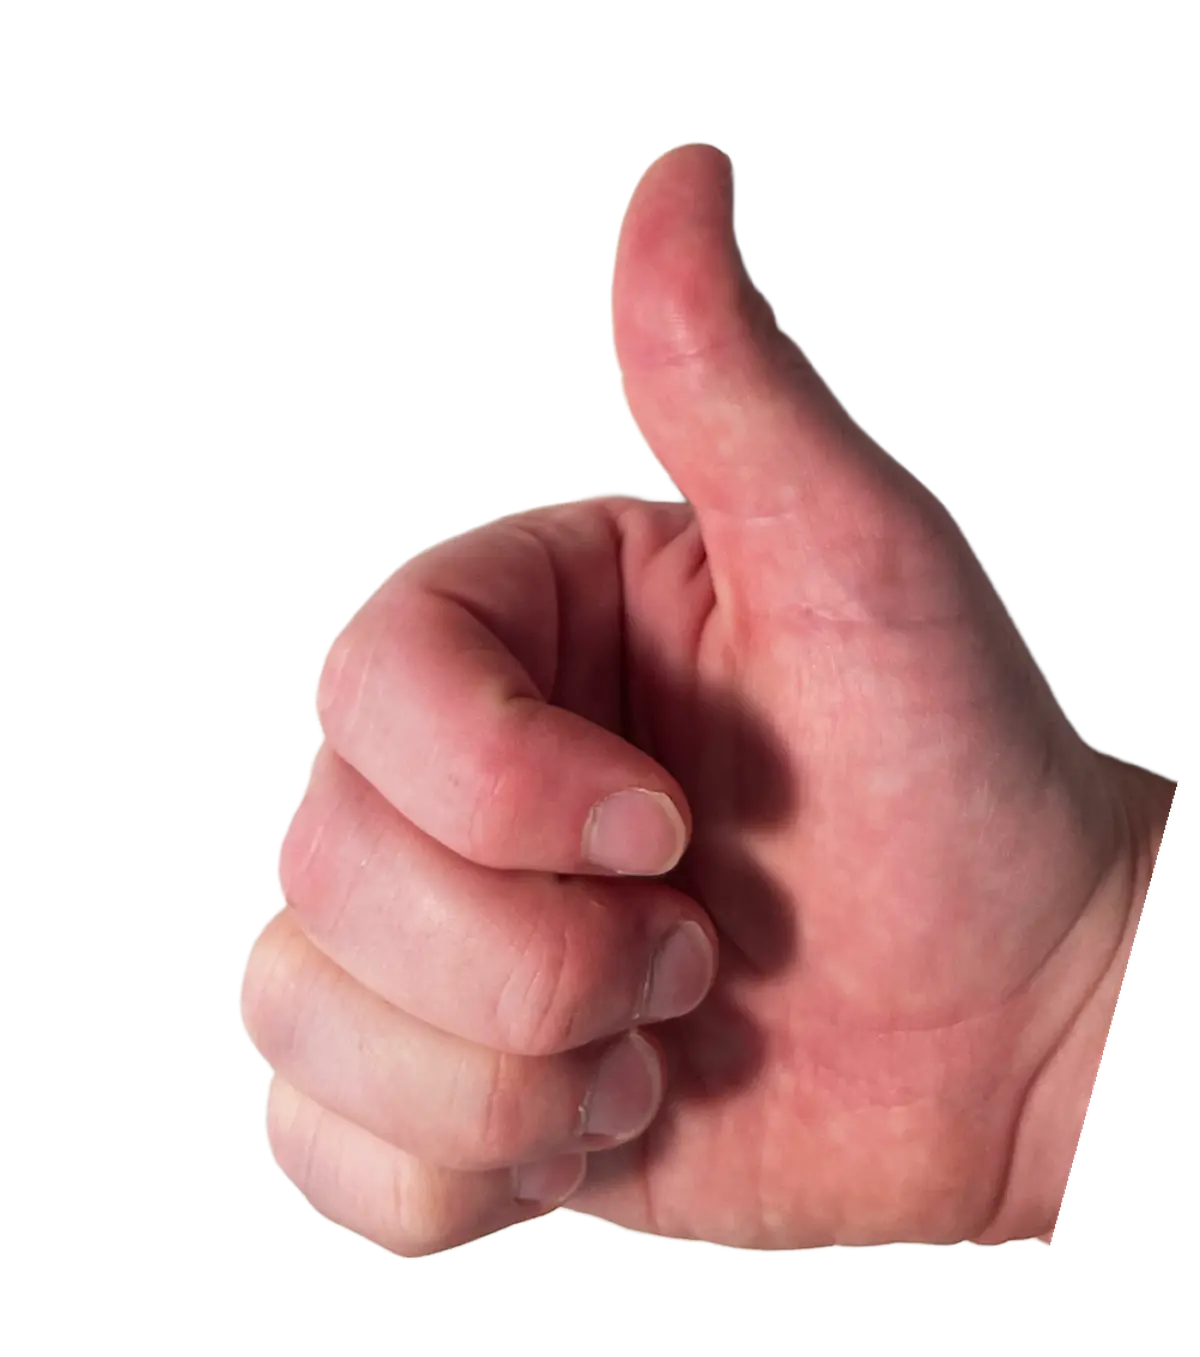
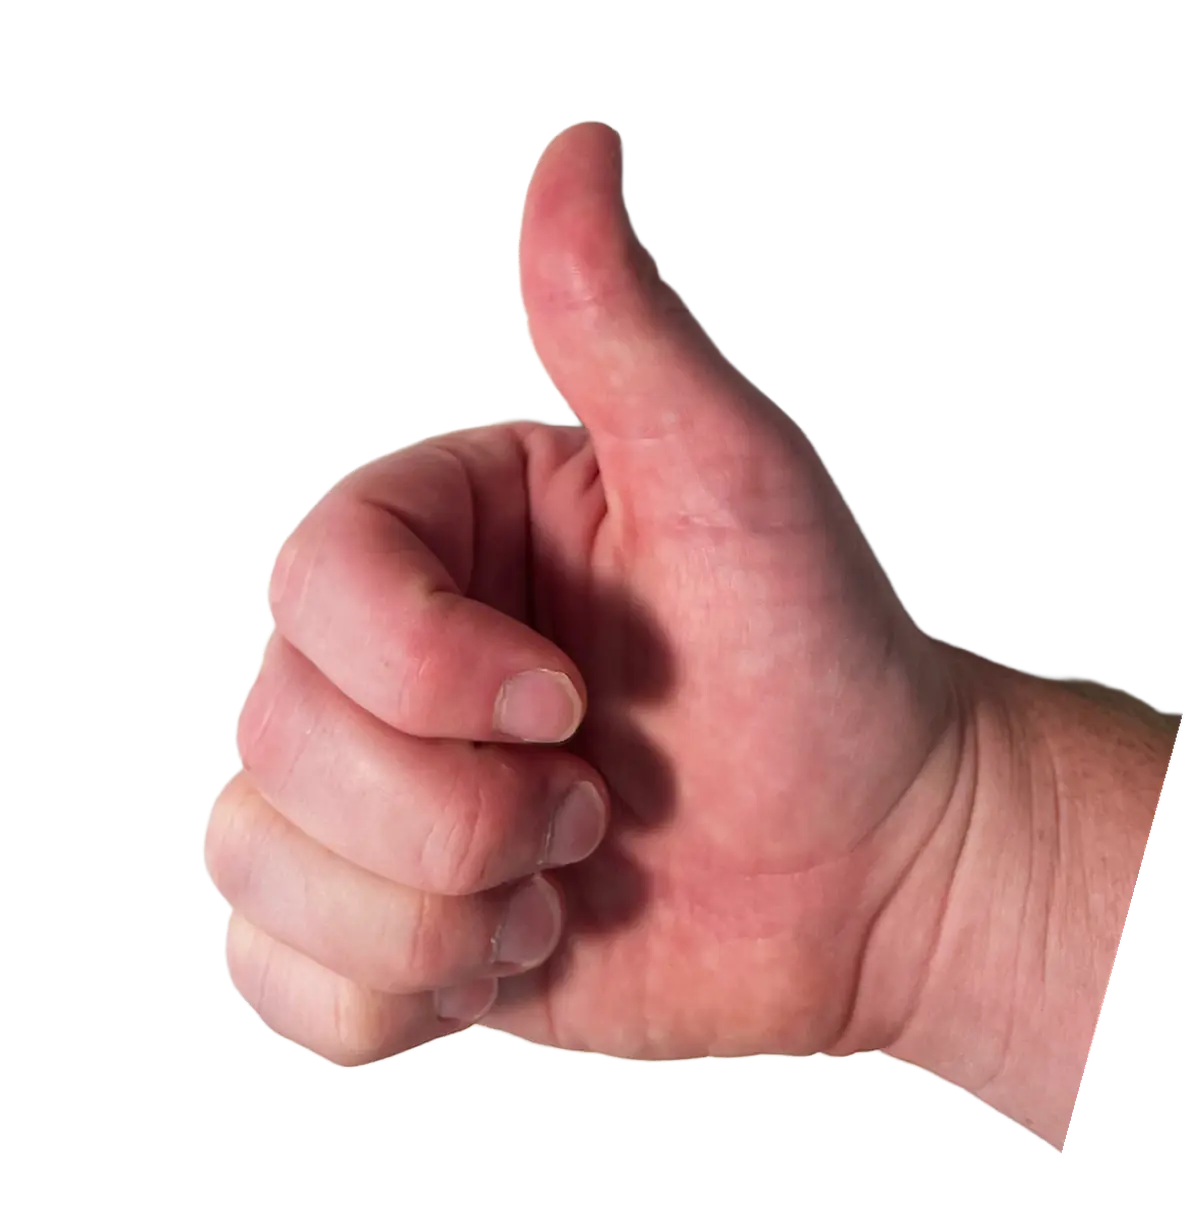
Lock screen fixes, and both desktop hands
THE CARET IS PARALLEL NOW. Noah: "The text cursor isn't parallel to the side
of the box." Its 3.95-degree lean is the demo's own — and faithful copying is
what made it wrong, because of WHERE it now lives. The demo draws its line in
page space, untransformed, beside a box carrying a -3.97 degree rotation; this
draws the caret INSIDE the box's rotated frame so it can line up with the
dots. There the box's sides are vertical, so the demo's tilt stops cancelling
the box's and starts adding to it — 7.9 degrees off the edge beside it.
Vertical in the local frame IS parallel to the side of the box.

THE STOP HAND SHOWS A WRIST. "it's cropped too close to the palm. Have the
crop closer to the wrist." The cut sat at 0.86 of the hand's height below the
fingertips, which lands on the heel of the palm — the hand ended where it
stopped being a hand. 1.02 puts it on the wrist proper. The cut is defined in
frame 1 and carried through the others by their own rotation, so the arm still
does not grow.

THE PHONE GATE IS CENTRED. Its Stage was 1080 scaled by the artboard ratio —
461 units, barely more than half the hand's own 793 — so the composition hung
out of the bottom of its own frame and no amount of centring could help.
Twice the hand's centreline is the height that centres it by construction.
Measured: 422 of 422.

THE HOME HAND'S FLICKER was it outliving its section. It stayed on the page
below the fold, and small scrolls near the pin's boundary re-crossed the call
[…]

diff --git a/src/components/home/Description.tsx b/src/components/home/Description.tsx
@@ -197,12 +197,11 @@ export default function Description() {
       let handShot: gsap.core.Timeline | null = null;
       const resetHand = (hide: boolean) => {
         handFired = false;
-        // ONLY THE HIDING PATH KILLS THE THROW. Leaving downward happens a
-        // fraction of a second after the call point — the throw is still in
-        // the air — and killing it there left the hand stranded 773px above
-        // its resting place and fully visible, which is worse than the
-        // problem being fixed. Clearing the flag is all the downward exit
-        // needs; the landing can finish on its own.
+        // Killing a throw mid-flight used to strand the hand 773px above its
+        // resting place and fully VISIBLE, which is why the downward exit
+        // once avoided doing it. Hiding in the same breath is what makes it
+        // safe: an interrupted throw that is also invisible has nothing to
+        // strand. Both exits take this path now.
         if (!hide) return;
         handShot?.kill();
         handShot = null;
@@ -293,8 +292,26 @@ export default function Description() {
           anticipatePin: 1,
           scrub: 0.6,
           invalidateOnRefresh: true,
-          // See the note on fireHand: clearing the flag at the boundaries is
-          // what lets the throw play again rather than only ever once.
+          /* BOTH EXITS HIDE IT NOW (2026-08-25). Noah: "the arrow hand is
+           * 'glitching' in and out when we scroll back up. Have it completely
+           * disappear after the user sees the project pages. It only
+           * reappears after the user scrolls all the way back up."
+           *
+           * The previous version cleared the flag on the way down but left
+           * the hand where it landed, on the grounds that hiding something
+           * the reader just watched arrive is its own kind of odd. What that
+           * actually produced is the flicker he is describing: the hand stays
+           * on the page below the fold, and every small scroll near the
+           * boundary re-crosses the call point and throws it again, so it
+           * blinks in and out around the seam. Hiding on exit removes the
+           * thing that can blink — past the section there is nothing to see,
+           * and coming back up plays the throw once, cleanly, from the top. */
+          /* The DOWNWARD exit only clears the flag; hiding is handled by the
+           * separate trigger below, which waits until the section has
+           * genuinely left the screen. This one fires at the END OF THE PIN,
+           * which is still a run-out short of the project grid — hiding here
+           * made the hand vanish at the very moment it is supposed to be
+           * pointing at what comes next. */
           onLeave: () => resetHand(false),
           onLeaveBack: () => resetHand(true),
         },
@@ -347,6 +364,32 @@ export default function Description() {
 
       if (line4) tl.to(line4, { yPercent: 0, duration: REVEAL, ease: "power3.out" });
       // The arrow arrives once the line is standing and readable.
+      /* GONE ONCE THE SECTION IS GONE (2026-08-25). Noah: "the arrow hand is
+       * 'glitching' in and out when we scroll back up. Have it completely
+       * disappear after the user sees the project pages. It only reappears
+       * after the user scrolls all the way back up."
+       *
+       * The flicker came from the hand outliving its own section: it stayed
+       * on the page below the fold, and small scrolls near the pin's boundary
+       * re-crossed the call point and threw it again, so it blinked around
+       * the seam. This hides it the moment the whole section has passed the
+       * top of the window — well after the pin ends, so the hand still gets
+       * to point at the grid on the way out — and re-arms it only when the
+       * reader comes back above that line, which is what "all the way back
+       * up" means. */
+      ScrollTrigger.create({
+        // The PIN, not the inner content box. `root` is absolutely positioned
+        // inside a pinned Stage, so its bottom edge is a fixed-position number
+        // that never passes anything — measured at the foot of the page it
+        // read -1252 while this trigger had never fired. The pinned element
+        // has a real spacer in the document, so "bottom top" on it means what
+        // it says: the section, run-out included, has left upward.
+        trigger: pinRef.current,
+        start: "bottom top",
+        onEnter: () => resetHand(true),
+        onLeaveBack: () => resetHand(true),
+      });
+
       tl.call(fireHand);
       // The beat Noah wants the reader to spend on that line, with the hand
       // landing into it. Long enough to cover the shot and its twang.

diff --git a/src/components/PasswordHand.tsx b/src/components/PasswordHand.tsx
@@ -161,7 +161,21 @@ const FIELD_PAD = 9 * COPY_SCALE;
  * Expressed as fractions of the box so it keeps that proportion when the box
  * is resized, which it just was.
  */
-const CARET = { hFrac: 0.78, leanFrac: 0.069, w: 3 * COPY_SCALE };
+const CARET = { hFrac: 0.78, leanFrac: 0, w: 3 * COPY_SCALE };
+/*
+ * THE LEAN IS GONE, 2026-08-25. Noah: "The text cursor isn't parallel to the
+ * side of the box, please rotate this a smidge to be parallel."
+ *
+ * It was 0.069 — the demo's own 3.3 units of drift over 47.8 of height, which
+ * is 3.95 degrees off vertical. Faithful, and wrong here, because of WHERE it
+ * is drawn. The demo puts its line in page space, untransformed, next to a box
+ * that carries a -3.97 degree rotation; this draws the caret INSIDE the box's
+ * rotated frame so it can line up with the dots. In that frame the box's sides
+ * are vertical, so the demo's tilt no longer cancels against the box's — it
+ * adds to it, leaving the caret 7.9 degrees off the edge beside it. Vertical in
+ * the local frame IS parallel to the side of the box, which is what was
+ * actually being asked for.
+ */
 
 // 0.25 -> 0.5, 2026-08-24: "Let's double the amount of time until we get to
 // the thumbs up."
@@ -195,6 +209,17 @@ const DEBOUNCE_MS = 140;
  * screen.
  */
 const PHONE_ARTBOARD = 820;
+/*
+ * ...and the height it is centred in — 2026-08-25: "make sure the hand and
+ * animation is more centered in the center of the phone screen."
+ *
+ * The Stage was 1080 scaled by the artboard ratio, which is 461 units — barely
+ * more than half the hand's own 793, so the composition hung out of the bottom
+ * of its own frame and could not be centred by it. Twice the hand's centre
+ * line is the height that puts the hand exactly in the middle by construction,
+ * whatever the crop turns out to be.
+ */
+const PHONE_STAGE_H = HAND_BOX.y * 2 + HAND_BOX.h;
 /** Slide the whole composition left so the hand is centred on the narrower
  *  artboard rather than sitting where a 1920-wide one put it. */
 const PHONE_SHIFT_X =
@@ -203,8 +228,10 @@ const PHONE_SHIFT_X =
 /** The artboard this screen is laid out on, which the PAGE has to agree with
  *  — it owns the `--u` declaration and the wrapper's width. Exported rather
  *  than duplicated so the two cannot drift apart. */
-export function usePasswordArtboard(): number {
-  return useIsPhone() ? PHONE_ARTBOARD : 1920;
+export function usePasswordArtboard(): { w: number; h: number } {
+  return useIsPhone()
+    ? { w: PHONE_ARTBOARD, h: PHONE_STAGE_H }
+    : { w: 1920, h: 1080 };
 }
 
 export default function PasswordHand({
@@ -394,7 +421,7 @@ export default function PasswordHand({
   return (
     <>
       <Stage
-        heightUnits={phone ? 1080 * (artboard / 1920) : 1080}
+        heightUnits={phone ? PHONE_STAGE_H : 1080}
         // The entry box is small, tilted and sitting on a photograph, so it
         // does not read as a click target the way a form field would. Anywhere
         // on this screen puts the cursor in it.

diff --git a/src/components/project/ProjectStatement.tsx b/src/components/project/ProjectStatement.tsx
@@ -490,20 +490,24 @@ export function ProjectStatement({
           // to a start position that can never be crossed, rather than
           // throwing, means a torn-down trigger is inert instead of
           // poisoning every other trigger's next refresh.
-          /* FIRES ONCE THE COPY HAS LEFT THE SCREEN (2026-08-23, Noah: "I'm
-           * noticing the hand will rotate down on the site and fall, but the
-           * last sentence or so from the description text is still visible.
-           * Let's move the hand down more so its the only thing that can be
-           * seen when its interaction plays.")
+          /* FIRES WHEN THE READER REACHES THE LAST SENTENCE (2026-08-25).
            *
-           * This used to fire when the paragraph's bottom edge reached the
-           * hand's own sticky line, which is near the top of the window — so
-           * the last line or two were still sitting just above the hand as it
-           * swung. Keying off the viewport's top edge instead, with a margin
-           * past it, means the trigger cannot fire until the text is
-           * genuinely gone. The hand's resting line also moves down (see the
-           * sticky wrapper below) so it plays nearer the middle of an empty
-           * screen rather than hard against the top of one. */
+           * Noah: "the scrolling then falling hand is getting messed up.
+           * Let's have it fall right when the user reached the final sentence
+           * in the last paragraph."
+           *
+           * The paragraph's BOTTOM edge is the end of its final sentence, so
+           * the question is where that edge should be on screen when the hand
+           * goes. `bottom bottom-=15%` is the moment it clears the foot of the
+           * window by a sixth of a screen — the last sentence fully in view
+           * and just read, rather than already gone.
+           *
+           * This reverses 2026-08-23's `bottom top-=80`, which held the fall
+           * until the copy had left the screen entirely so the hand would be
+           * the only thing moving. That reading is now superseded: he has seen
+           * both and wants the fall tied to the reader's place in the text.
+           * The hand pins itself to the viewport for the duration either way
+           * (see onStart), so it is still whole and centred while it plays. */
           start: () => {
             const el = handStickyRef.current;
             // A trigger position past any real document height — a torn-
@@ -511,7 +515,7 @@ export function ProjectStatement({
             // crashing the refresh that every OTHER trigger on the page
             // depends on completing.
             if (!el) return 1e9;
-            return "bottom top-=80";
+            return "bottom bottom-=15%";
           },
           once: true,
         },

diff --git a/src/app/password/page.tsx b/src/app/password/page.tsx
@@ -76,15 +76,13 @@ function Gate() {
              see PHONE_ARTBOARD in PasswordHand. The height term still caps
              it on a window too short for the composition. */
           style={{
-            ["--u" as string]: `min(100cqw / ${artboard}, 100dvh / ${
-              (1080 * artboard) / 1920
-            })`,
+            ["--u" as string]: `min(100cqw / ${artboard.w}, 100dvh / ${artboard.h})`,
           }}
         >
           {/* Pinned to the artboard's own width so the hand stays centred on
               a viewport too tall for 16:9, where --u is height-derived and
               the flex parent is wider than 1920 units. */}
-          <div style={{ width: `calc(var(--u) * ${artboard})` }}>
+          <div style={{ width: `calc(var(--u) * ${artboard.w})` }}>
             <PasswordHand onSubmit={check} onFinished={enter} />
           </div>
         </div>

diff --git a/src/app/dev/password/PasswordDemo.tsx b/src/app/dev/password/PasswordDemo.tsx
@@ -55,12 +55,10 @@ export default function PasswordDemo() {
              see PHONE_ARTBOARD in PasswordHand. The height term still caps
              it on a window too short for the composition. */
           style={{
-            ["--u" as string]: `min(100cqw / ${artboard}, 100dvh / ${
-              (1080 * artboard) / 1920
-            })`,
+            ["--u" as string]: `min(100cqw / ${artboard.w}, 100dvh / ${artboard.h})`,
           }}
         >
-          <div style={{ width: `calc(var(--u) * ${artboard})` }}>
+          <div style={{ width: `calc(var(--u) * ${artboard.w})` }}>
             <PasswordHand
               key={resetKey}
               onSubmit={check}

diff --git a/src/lib/passwordHand.ts b/src/lib/passwordHand.ts
@@ -10,7 +10,7 @@
  * the position Noah's demo file puts the artwork.
  */
 
-export const HAND_BOX = {"x": 595.3, "y": 105.2, "w": 701.4, "h": 793.1};
+export const HAND_BOX = {"x": 595.3, "y": 105.2, "w": 826.7, "h": 830.2};
 
 /**
  * Where the UNCROPPED 1500x1200 artwork's top-left sits, same units. The
@@ -40,4 +40,4 @@ export const HAND_FRAMES: string[] = [
 ];
 
 /** Natural pixel size of every frame, for next/image. */
-export const HAND_PIXELS = { width: 1200, height: 1357 };
+export const HAND_PIXELS = { width: 1200, height: 1205 };

diff --git a/tools/password-hand/build_hand.py b/tools/password-hand/build_hand.py
@@ -161,9 +161,14 @@ def corrections(frames):
 # turning: consistent relative to the wrist, not to the frame.
 #
 # CUT_FROM_TIP is how far down the arm the cut sits, as a fraction of the
-# hand's own height in frame 1, measured from the fingertips. 0.86 leaves the
-# heel of the palm and a short stub of wrist and takes the rest.
-CUT_FROM_TIP = 0.86
+# hand's own height in frame 1, measured from the fingertips.
+#
+# 0.86 -> 1.02, 2026-08-25: "For the 'stop' hand on the first frame, it's
+# cropped too close to the palm. Have the crop closer to the wrist." At 0.86
+# the line fell on the heel of the palm itself, so the open hand ended where
+# it stopped being a hand — no wrist at all. A little over one hand-height
+# below the fingertips lands it on the wrist proper.
+CUT_FROM_TIP = 1.02
 CUT_ANGLE_DEG = 0.0   # the cut is square across the arm in frame 1
 
 
